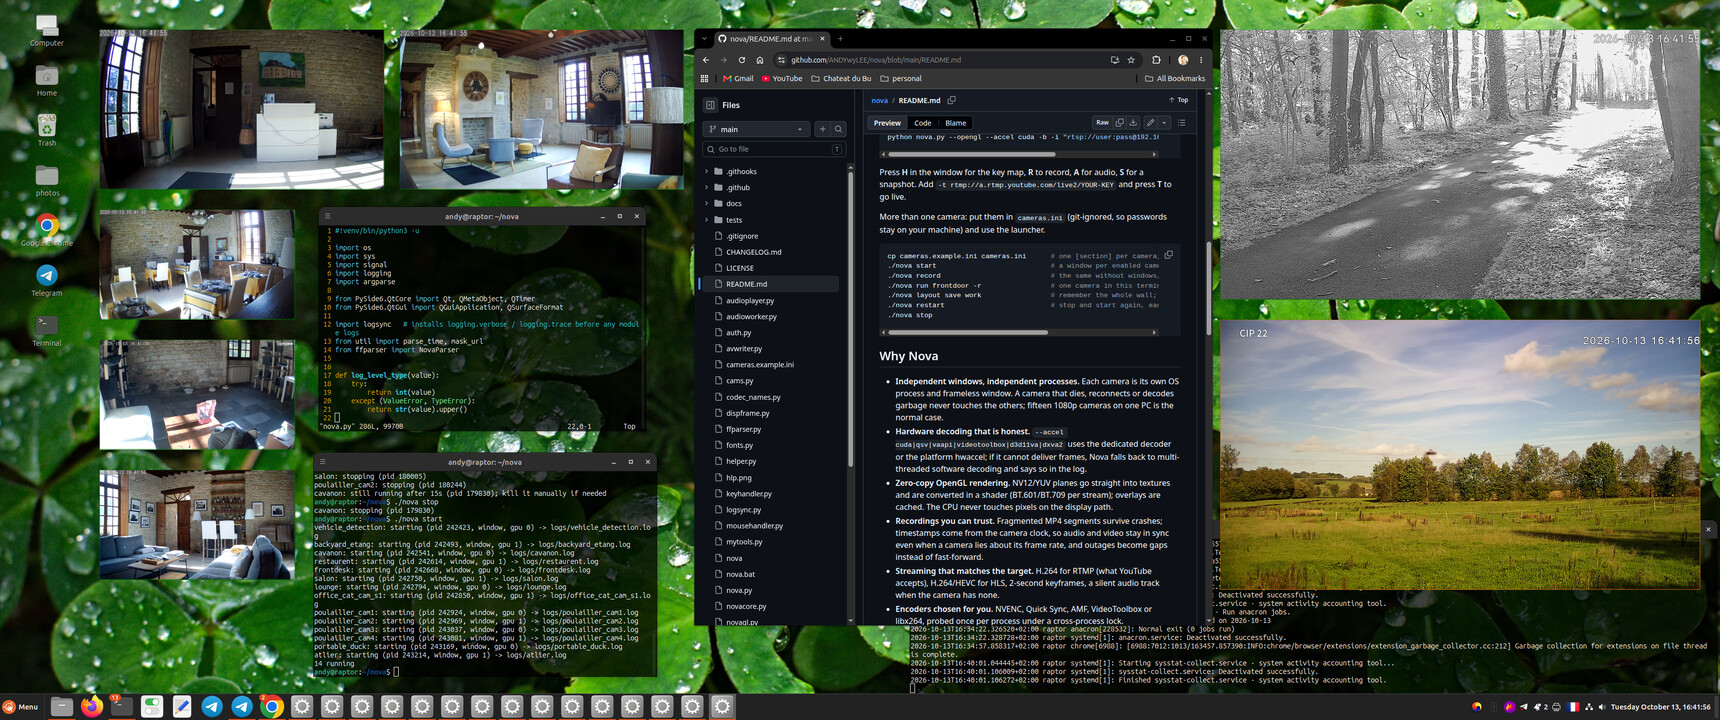
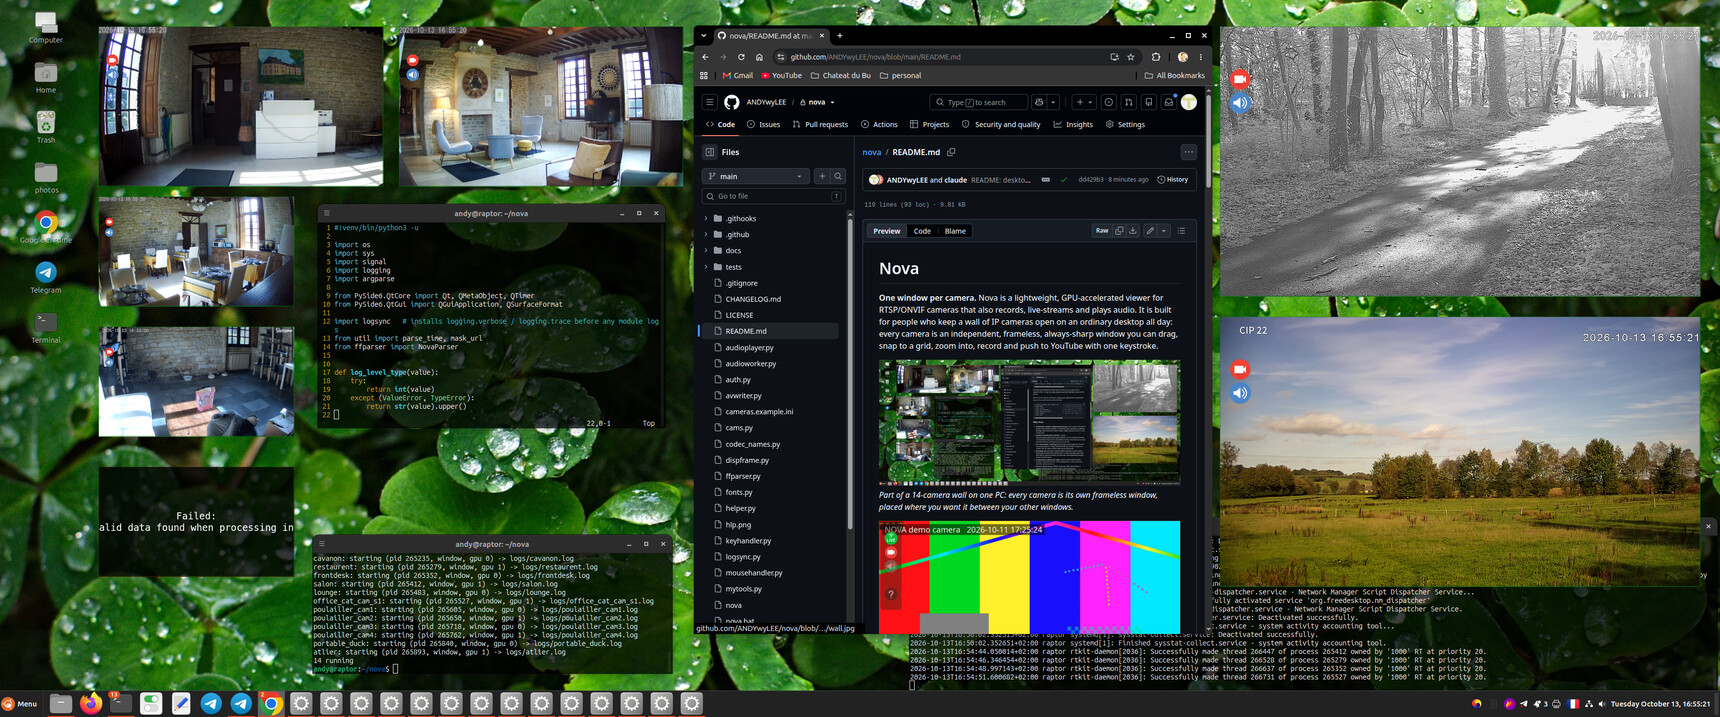
README: new desktop screenshot, live camera window with the control strip instead of the demo clip

diff --git a/README.md b/README.md
@@ -5,8 +5,8 @@
 ![Nova camera windows spread over a desktop next to a browser and terminals](docs/images/wall.jpg)
 *Part of a 14-camera wall on one PC: every camera is its own frameless window, placed where you want it between your other windows.*
 
-![Nova window with the control strip](docs/images/nova-window.png)
-*A single window rendered through the OpenGL path; the strip shows live-stream, record (on), audio and help.*
+![A live camera window with the control strip](docs/images/nova-window.jpg)
+*One window, live 1080p through the OpenGL path. The mouse is on the control strip at the top left: record (on), audio (on) and help; the thin orange line is the focus border (`-b`).*
 
 Python · PySide6 (Qt 6) · PyAV (FFmpeg) · PyOpenGL · PyAudio — Linux, Windows, macOS · 0BSD licence.
 

diff --git a/docs/user-guide.md b/docs/user-guide.md
@@ -142,7 +142,7 @@ Notes:
 
 Each camera is a frameless window titled `Nova - NAME` (its name in `cameras.ini`, or the one given with `-n`). The border colour (with `-b`) shows focus: orange = focused, green = not focused. The control strip appears when the mouse enters the top-left corner:
 
-![Control strip](images/nova-window.png)
+![Control strip](images/nova-window.jpg)
 
 | Icon | Meaning |
 |---|---|
